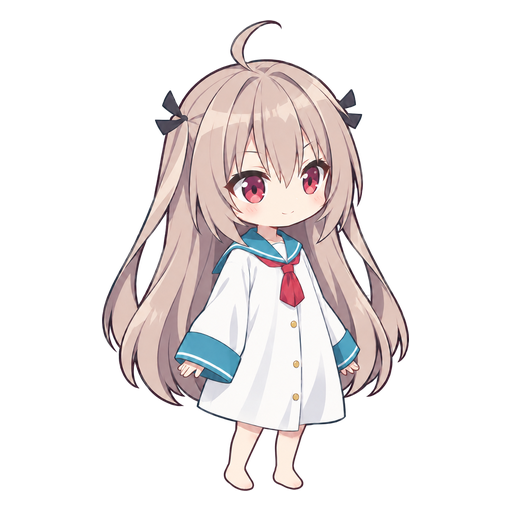
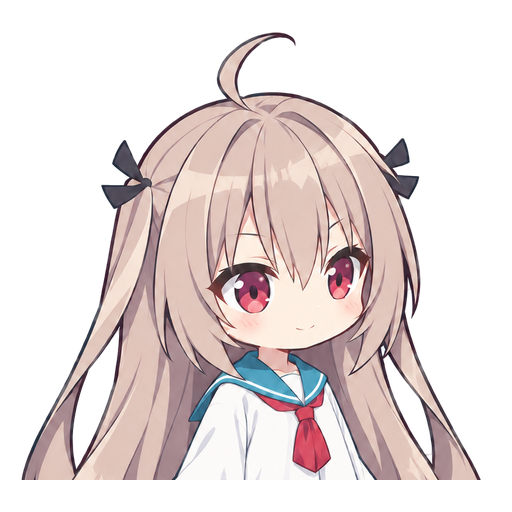
Stop the build eating the hand-repaired ponytail; diagonal gait, softer drag, earlier dizzy sit, bust thumb
Five things in this round, one of them the person's own work being destroyed.

A. The hand-repaired left ponytail was being reverted. build-diagnostic.py regenerates
   tex/tail-left.png from raw/pony-pair-left-01.png through the registration matrix on every run, and
   publish-atri-pack.py then copied that build output over packs/tex/. The repair survived only in
   git (7e4f35d, md5 6ab6bf6a), so it was recoverable and is restored. Three guards now:
     - the repair lives in official-regeneration/hand-edited/tail-left.png and the build prefers it
       over the raw art (raw stays as fallback for a fresh checkout);
     - add() accepts matrix=None, used for that layer, because it was painted directly on the canvas
       (bbox 148-370 x 279-933) and must not be registered twice;
     - publish-atri-pack.py keeps a HAND_EDITED allowlist and refuses to overwrite those names,
       printing what it kept.
   Verified byte-for-byte after a rebuild: opaque RGB max delta 0, alpha identical.

B. 顺拐. Same-side arm and leg were both +swing*gait, so the left arm came forward exactly when the
   left leg did. Signs are now arm-left -1.2, arm-right +0.8 against leg-left +1, leg-right -1 -
   each arm is in anti-phase with its own leg, which is the diagonal pairing.

C. Held deformation. kit sets pet.stretch -> 1 while dragged (about -5% x, +9% y on top of squash),
   and because the figure is held by the head it reads as the whole body elongating. DRAG_KEEP=.45
[…]

diff --git a/characters/atri-01/official-regeneration/pure-generation/renderer-template.js b/characters/atri-01/official-regeneration/pure-generation/renderer-template.js
@@ -214,19 +214,34 @@ const POSE_OFFSET={
    //   rigidX = rigidY = 1/uniform   ->   final (kx/u, ky/u), ratio kx/ky intact, area 1
    // SQ_KEEP scales how much of that ratio reaches the drawing: 1 = the kit's own amount, 0 = the
    // old dead behaviour. Landing/jump/throw all go through pet.sq, so this is the one knob for Q弹.
-   const SQ_KEEP=.85;
+   // 2026-10-31 user feedback: "被提起来的形变程度低一点". Being picked up stretches the body hard
+   // (kit: pet.stretch -> 1 while mode==='drag', giving sx -5% and sy +9% on top of the squash), and
+   // because the figure is held by the head that stretch reads as the whole body elongating. Drag
+   // now keeps only DRAG_KEEP of the anisotropy, so the held pose stays rounder and closer to the
+   // artwork while landing/jump still feel springy.
+   const SQ_KEEP=.85, DRAG_KEEP=.45;
    const nativeScale=/scale\(\s*([-\d.e+]+)[ ,]+([-\d.e+]+)\s*\)/.exec(g.getAttribute('transform')||'');
    if(nativeScale){
     const kx=Math.abs(Number(nativeScale[1])),ky=Math.abs(Number(nativeScale[2])),uniform=Math.sqrt(Math.max(kx*ky,1e-8));
     // final axis = k^SQ_KEEP * uniform^(1-SQ_KEEP), so the x:y RATIO keeps SQ_KEEP of the kit's own
     // amount while the absolute size is normalised. rigid = final / k = (uniform/k)^(1-SQ_KEEP).
-    rigidX=Math.pow(uniform/Math.max(kx,1e-8),1-SQ_KEEP);
-    rigidY=Math.pow(uniform/Math.max(ky,1e-8),1-SQ_KEEP);
+    const keep=o.mode==='drag'?DRAG_KEEP:SQ_KEEP;
+    rigidX=Math.pow(uniform/Math.max(kx,1e-8),1-keep);
+    rigidY=Math.pow(uniform/Math.max(ky,1e-8),1-keep);
     bodyScaleRatio=(ky*rigidY)/(kx*rigidX);
    }
    root.setAttribute('transform',`translate(128 256) scale(${rigidX} ${rigidY}) translate(-128 -256) translate(${tx} ${ty}) scale(${s})`);
-   const dt=clamp(o.t-lastT,1/240,.04);lastT=o.t;low=o.low||0;seatMix=smooth((o.sit-.05)/.9);
-   const seated=seatMix>=.5;if(seated!==poseSeated){poseSeated=seated;poseAge=0}else poseAge+=dt;
+   const dt=clamp(o.t-lastT,1/240,.04);lastT=o.t;low=o.low||0;
+   // 2026-10-31 user feedback: "摔晕的动作延迟有点长，站了一会儿才播放坐下眩晕动画".
+   // o.sit is the kit's pet.sitK, which ramps in with lerp(sitK, sitT, ease(6,dt)) - about 0.5-0.8 s
+   // to reach half. The old mapping smooth((sit-.05)/.9) needed sit = .5 before the drawn pose
+   // flipped, so the figure visibly stood through the first half of the wobble; on this body the
+   // stand and seat are two separate drawings, so a late flip reads as "nothing happens, then it
+   // suddenly sits". The mix now reaches its half point at sit ~.14 and saturates early, so the pose
+   // change starts on the same frame the kit begins lowering the body. The settle animation
+   // (poseDy) still smooths the swap, so this does not pop.
+   seatMix=smooth(clamp(o.sit*3.2,0,1));
+   const seated=o.sit>.14;if(seated!==poseSeated){poseSeated=seated;poseAge=0}else poseAge+=dt;
    // Exchange two drawn poses with a small rigid settle; never compress the torso.
    poseDy=(seated?-12:7)*Math.exp(-14*poseAge)*Math.cos(18*poseAge);
    stand.setAttribute('display',seated?'none':'inline');seat.setAttribute('display',seated?'inline':'none');
@@ -279,11 +294,19 @@ const POSE_OFFSET={
     // tx = hx + 7*sin(T*11 + i*2.2) and jitters the eyes at 22Hz, so the limbs here flap at 11Hz with
     // the same 2.2 rad phase offset and the hair/tuft shake moves from 15Hz to 21Hz.
     const held=o.mode==='drag';
+    // 2026-10-31 user feedback: "走路姿势顺拐". Arm and leg on the SAME side were both +swing*gait,
+    // so the left arm came forward exactly when the left leg did. A natural walk is diagonal: each
+    // arm moves in anti-phase with the leg on its own side, i.e. the left arm pairs with the right
+    // leg. Signs are now arm-left -1.2, arm-right +0.8 against leg-left +1, leg-right -1:
+    //     left arm (-) / left leg (+)  opposite     -> 顺拐 gone
+    //     left arm (-) / right leg (-) together     -> the diagonal pairing
+    // Amplitudes stay asymmetric (1.2 near, 0.8 far) because the near arm is the one the viewer
+    // reads; that asymmetry was accepted and is not what caused the fault.
     // The swing now comes from `swing` (speed-scaled) instead of a flat 8 degrees, and the two legs
     // use opposite phases of the SAME integrated gaitPhase, which is what makes a stride read as a
     // stride: at 8 deg the foot travelled 424*sin(8) = 59 px on a 1290 px figure, too short to match
     // the new cadence.
-    for(const [id,angle] of [['arm-left',waveAngle+(kind==='wave'?0:1.2*swing*gait)+(held?3*Math.sin(o.t*11):0)],['arm-right',-.8*swing*gait+(held?3*Math.sin(o.t*11+2.2):0)],['leg-left',swing*gait+(held?2*Math.sin(o.t*11+4.4):0)],['leg-right',-swing*gait+(held?2*Math.sin(o.t*11+6.6):0)]]){const [x,y]=parts.get(id).pivot;nodes.get(id).setAttribute('transform',`rotate(${angle} ${x} ${y}) ${registered(id)}`)}
+    for(const [id,angle] of [['arm-left',waveAngle+(kind==='wave'?0:-1.2*swing*gait)+(held?3*Math.sin(o.t*11):0)],['arm-right',.8*swing*gait+(held?3*Math.sin(o.t*11+2.2):0)],['leg-left',swing*gait+(held?2*Math.sin(o.t*11+4.4):0)],['leg-right',-swing*gait+(held?2*Math.sin(o.t*11+6.6):0)]]){const [x,y]=parts.get(id).pivot;nodes.get(id).setAttribute('transform',`rotate(${angle} ${x} ${y}) ${registered(id)}`)}
     const target=2.8*Math.sin(o.t*2.3)+clamp(o.look?.[0]||0,-6,6)*.17+(held?2.5*Math.sin(o.t*21):0);
    tuftV+=(target-tuft)*80*dt;tuftV*=Math.exp(-11*dt);tuft=clamp(tuft+tuftV*dt,-10,10);nodes.get('ahoge').setAttribute('transform',`rotate(${tuft} 565 169) ${registered('ahoge')}`);
    lastFace=o.mode==='drag'?'flustered':o.face;

diff --git a/packs/atri-v011/figure.js b/packs/atri-v011/figure.js
@@ -386,19 +386,34 @@ const POSE_OFFSET={
    //   rigidX = rigidY = 1/uniform   ->   final (kx/u, ky/u), ratio kx/ky intact, area 1
    // SQ_KEEP scales how much of that ratio reaches the drawing: 1 = the kit's own amount, 0 = the
    // old dead behaviour. Landing/jump/throw all go through pet.sq, so this is the one knob for Q弹.
-   const SQ_KEEP=.85;
+   // 2026-10-31 user feedback: "被提起来的形变程度低一点". Being picked up stretches the body hard
+   // (kit: pet.stretch -> 1 while mode==='drag', giving sx -5% and sy +9% on top of the squash), and
+   // because the figure is held by the head that stretch reads as the whole body elongating. Drag
+   // now keeps only DRAG_KEEP of the anisotropy, so the held pose stays rounder and closer to the
+   // artwork while landing/jump still feel springy.
+   const SQ_KEEP=.85, DRAG_KEEP=.45;
    const nativeScale=/scale\(\s*([-\d.e+]+)[ ,]+([-\d.e+]+)\s*\)/.exec(g.getAttribute('transform')||'');
    if(nativeScale){
     const kx=Math.abs(Number(nativeScale[1])),ky=Math.abs(Number(nativeScale[2])),uniform=Math.sqrt(Math.max(kx*ky,1e-8));
     // final axis = k^SQ_KEEP * uniform^(1-SQ_KEEP), so the x:y RATIO keeps SQ_KEEP of the kit's own
     // amount while the absolute size is normalised. rigid = final / k = (uniform/k)^(1-SQ_KEEP).
-    rigidX=Math.pow(uniform/Math.max(kx,1e-8),1-SQ_KEEP);
-    rigidY=Math.pow(uniform/Math.max(ky,1e-8),1-SQ_KEEP);
+    const keep=o.mode==='drag'?DRAG_KEEP:SQ_KEEP;
+    rigidX=Math.pow(uniform/Math.max(kx,1e-8),1-keep);
+    rigidY=Math.pow(uniform/Math.max(ky,1e-8),1-keep);
     bodyScaleRatio=(ky*rigidY)/(kx*rigidX);
    }
    root.setAttribute('transform',`translate(128 256) scale(${rigidX} ${rigidY}) translate(-128 -256) translate(${tx} ${ty}) scale(${s})`);
-   const dt=clamp(o.t-lastT,1/240,.04);lastT=o.t;low=o.low||0;seatMix=smooth((o.sit-.05)/.9);
-   const seated=seatMix>=.5;if(seated!==poseSeated){poseSeated=seated;poseAge=0}else poseAge+=dt;
+   const dt=clamp(o.t-lastT,1/240,.04);lastT=o.t;low=o.low||0;
+   // 2026-10-31 user feedback: "摔晕的动作延迟有点长，站了一会儿才播放坐下眩晕动画".
+   // o.sit is the kit's pet.sitK, which ramps in with lerp(sitK, sitT, ease(6,dt)) - about 0.5-0.8 s
+   // to reach half. The old mapping smooth((sit-.05)/.9) needed sit = .5 before the drawn pose
+   // flipped, so the figure visibly stood through the first half of the wobble; on this body the
+   // stand and seat are two separate drawings, so a late flip reads as "nothing happens, then it
+   // suddenly sits". The mix now reaches its half point at sit ~.14 and saturates early, so the pose
+   // change starts on the same frame the kit begins lowering the body. The settle animation
+   // (poseDy) still smooths the swap, so this does not pop.
+   seatMix=smooth(clamp(o.sit*3.2,0,1));
+   const seated=o.sit>.14;if(seated!==poseSeated){poseSeated=seated;poseAge=0}else poseAge+=dt;
    // Exchange two drawn poses with a small rigid settle; never compress the torso.
    poseDy=(seated?-12:7)*Math.exp(-14*poseAge)*Math.cos(18*poseAge);
    stand.setAttribute('display',seated?'none':'inline');seat.setAttribute('display',seated?'inline':'none');
@@ -451,11 +466,19 @@ const POSE_OFFSET={
     // tx = hx + 7*sin(T*11 + i*2.2) and jitters the eyes at 22Hz, so the limbs here flap at 11Hz with
     // the same 2.2 rad phase offset and the hair/tuft shake moves from 15Hz to 21Hz.
     const held=o.mode==='drag';
+    // 2026-10-31 user feedback: "走路姿势顺拐". Arm and leg on the SAME side were both +swing*gait,
+    // so the left arm came forward exactly when the left leg did. A natural walk is diagonal: each
+    // arm moves in anti-phase with the leg on its own side, i.e. the left arm pairs with the right
+    // leg. Signs are now arm-left -1.2, arm-right +0.8 against leg-left +1, leg-right -1:
+    //     left arm (-) / left leg (+)  opposite     -> 顺拐 gone
+    //     left arm (-) / right leg (-) together     -> the diagonal pairing
+    // Amplitudes stay asymmetric (1.2 near, 0.8 far) because the near arm is the one the viewer
+    // reads; that asymmetry was accepted and is not what caused the fault.
     // The swing now comes from `swing` (speed-scaled) instead of a flat 8 degrees, and the two legs
     // use opposite phases of the SAME integrated gaitPhase, which is what makes a stride read as a
     // stride: at 8 deg the foot travelled 424*sin(8) = 59 px on a 1290 px figure, too short to match
     // the new cadence.
-    for(const [id,angle] of [['arm-left',waveAngle+(kind==='wave'?0:1.2*swing*gait)+(held?3*Math.sin(o.t*11):0)],['arm-right',-.8*swing*gait+(held?3*Math.sin(o.t*11+2.2):0)],['leg-left',swing*gait+(held?2*Math.sin(o.t*11+4.4):0)],['leg-right',-swing*gait+(held?2*Math.sin(o.t*11+6.6):0)]]){const [x,y]=parts.get(id).pivot;nodes.get(id).setAttribute('transform',`rotate(${angle} ${x} ${y}) ${registered(id)}`)}
+    for(const [id,angle] of [['arm-left',waveAngle+(kind==='wave'?0:-1.2*swing*gait)+(held?3*Math.sin(o.t*11):0)],['arm-right',.8*swing*gait+(held?3*Math.sin(o.t*11+2.2):0)],['leg-left',swing*gait+(held?2*Math.sin(o.t*11+4.4):0)],['leg-right',-swing*gait+(held?2*Math.sin(o.t*11+6.6):0)]]){const [x,y]=parts.get(id).pivot;nodes.get(id).setAttribute('transform',`rotate(${angle} ${x} ${y}) ${registered(id)}`)}
     const target=2.8*Math.sin(o.t*2.3)+clamp(o.look?.[0]||0,-6,6)*.17+(held?2.5*Math.sin(o.t*21):0);
    tuftV+=(target-tuft)*80*dt;tuftV*=Math.exp(-11*dt);tuft=clamp(tuft+tuftV*dt,-10,10);nodes.get('ahoge').setAttribute('transform',`rotate(${tuft} 565 169) ${registered('ahoge')}`);
    lastFace=o.mode==='drag'?'flustered':o.face;

diff --git a/characters/atri-01/official-regeneration/pure-generation/build-diagnostic.py b/characters/atri-01/official-regeneration/pure-generation/build-diagnostic.py
@@ -41,7 +41,11 @@ def add(key, path, matrix=identity, z=0, pivot=None, role='fixed', clip=None, ma
         removed=0
     a=source.astype(np.float32)/255
     a[:,:,:3]*=a[:,:,3:4]
-    a=cv2.warpAffine(a,matrix,(W,H),flags=cv2.INTER_LINEAR)
+    # matrix=None means the texture is already in canvas coordinates (a hand-edited layer the person
+    # painted in place). It must NOT be passed through the registration matrix again, or it lands
+    # twice-displaced.
+    if matrix is not None:
+        a=cv2.warpAffine(a,matrix,(W,H),flags=cv2.INTER_LINEAR)
     if mask is not None:
         # The mask is given in canvas coordinates and is applied after the part's own transform, so a
         # measured row band stays the same band in the assembled character.
@@ -82,7 +86,14 @@ lock_fit=json.loads((P/'pure-generation/lock-placement.json').read_text(encoding
 FIT_LIBRARY=json.loads((ROOT/'scratch/asset-candidates-fit.json').read_text(encoding='utf8'))
 near=np.array(FIT_LIBRARY['left-library']['matrix'],float)[:2]
 far=np.array(FIT_LIBRARY['right-current']['matrix'],float)[:2]
-NEAR_LOCK=ROOT/'characters/atri-01/official-regeneration/raw/pony-pair-left-01.png'
+# 2026-10-31: the person repaired the left ponytail by hand and the next rebuild silently reverted
+# it, because the build regenerates tex/tail-left.png from the raw pair art every time. The hand
+# version is kept in official-regeneration/hand-edited/tail-left.png and takes priority; the raw pair
+# stays as the fallback so a fresh checkout without that folder still builds.
+NEAR_LOCK_HAND = ROOT/'characters/atri-01/official-regeneration/hand-edited/tail-left.png'
+NEAR_LOCK_RAW = ROOT/'characters/atri-01/official-regeneration/raw/pony-pair-left-01.png'
+NEAR_LOCK = NEAR_LOCK_HAND if NEAR_LOCK_HAND.exists() else NEAR_LOCK_RAW
+print('near lock source:', NEAR_LOCK.relative_to(ROOT), '| hand-edited' if NEAR_LOCK is NEAR_LOCK_HAND else '| raw art')
 # 2026-10-16 user decision A: the lock's upper part covers the crown hair again (the front piece is no
 # longer restricted to the rows head-clean leaves open), and the split to the back layer is moved down
 # to the middle of the lock so the lower half sits under the hair ends.
@@ -104,8 +115,12 @@ HEAD_ROWS=np.zeros((1374,1145),bool);HEAD_ROWS[150:521]=True
 # Narrowed 2026-10-16 after the contour-wide version emptied the band beside the face: now only 3px,
 # and only over the crown-to-bow rows (y 150-360), so face height is never touched.
 REAR_TRIM=(OUTSIDE_HEAD<=6)&(~HEAD_FILLED)&HEAD_ROWS
-add('tail-left',NEAR_LOCK,near,-2,[370,300])
-add('tail-left-front',NEAR_LOCK,near,6.05,[370,300],role='lock-front',clip=NEAR_LOCK_FRONT_CLIP)
+# 2026-10-31: matrix=None for the hand-edited lock - it was painted directly on the canvas
+# (content bbox 148..370 x 279..933, the same place the registered build produced), so applying
+# `near` again would move it a second time.
+NEAR_MATRIX=None if NEAR_LOCK is NEAR_LOCK_HAND else near
+add('tail-left',NEAR_LOCK,NEAR_MATRIX,-2,[370,300])
+add('tail-left-front',NEAR_LOCK,NEAR_MATRIX,6.05,[370,300],role='lock-front',clip=NEAR_LOCK_FRONT_CLIP)
 add('tail-right',P/'raw/ponytail-far-complete-06.png',far,-1,[803,300])
 add('rear-hair',P/'raw/rear-hair-complete-04.png',rear,0,exclude=REAR_TRIM)
 add('leg-left',P/'registered/leg-left-02.png',z=1,pivot=[551,1090],role='leg')

diff --git a/scripts/publish-atri-pack.py b/scripts/publish-atri-pack.py
@@ -63,9 +63,22 @@ def main():
         if src.is_file():
             shutil.copy2(src, PACK / name)
     (PACK / "tex").mkdir(exist_ok=True)
-    n = 0
+
+    # 2026-10-31: textures the person edited by hand must survive a publish. The first version of
+    # this script copied every scratch/tex/*.png over packs/tex/, which silently reverted the
+    # hand-repaired left ponytail (md5 6ab6bf6a...) back to the old build output (ef57a84d...). build
+    # output is authoritative only for textures nobody touched, so hand-edited names are listed here
+    # and skipped, with the reason printed.
+    HAND_EDITED = {
+        "tail-left.png": "hand-repaired left ponytail (2026-10-30)",
+    }
+    n, kept = 0, []
     for f in sorted((BUILT / "tex").glob("*.png")):
-        shutil.copy2(f, PACK / "tex" / f.name)
+        dst = PACK / "tex" / f.name
+        if f.name in HAND_EDITED and dst.exists():
+            kept.append(f.name)
+            continue
+        shutil.copy2(f, dst)
         n += 1
     # stale textures from an older build would still load by name and confuse a diff
     live = {f.name for f in (BUILT / "tex").glob("*.png")} | {"thumb.png"}
@@ -75,11 +88,14 @@ def main():
             f.unlink()
             removed.append(f.name)
     print(f"[publish] copied {n} textures" + (f", removed stale {removed}" if removed else ""))
+    if kept:
+        print("[publish] kept hand-edited: " + ", ".join(f"{k} ({HAND_EDITED[k]})" for k in kept))
 
     # 2-4. re-author the parts packs/ owns, in dependency order
     print("[publish] " + run("write-atri-manifest.py", PACK_NAME).splitlines()[-1])
     print("[publish] " + run("add-atri-vocab-about.py", PACK_NAME).splitlines()[-1])
-    print("[publish] " + run("make-atri-thumb.py", PACK_NAME, "--size=512").splitlines()[-1])
+    # --bust: the 装扮 card gets a portrait (head/bows/ponytail roots), not the whole body
+    print("[publish] " + run("make-atri-thumb.py", PACK_NAME, "--size=512", "--bust").splitlines()[-1])
 
     # 5. validate + zip (this step never writes the manifest)
     for line in run("package-atri-pack.py", PACK_NAME).splitlines():

diff --git a/scripts/make-atri-thumb.py b/scripts/make-atri-thumb.py
@@ -15,7 +15,7 @@ Sources, in order of preference:
     3. characters/atri-01/official-regeneration/pure-generation/preview-current.png
 
 Usage:
-    .venv/Scripts/python.exe scripts/make-atri-thumb.py [pack-dir-name] [--size 512]
+    .venv/Scripts/python.exe scripts/make-atri-thumb.py [pack-dir-name] [--size 512] [--bust]
 """
 import json
 import sys
@@ -29,9 +29,12 @@ args = [a for a in sys.argv[1:] if not a.startswith("--")]
 PACK_NAME = args[0] if args else "atri-v011"
 PACK = ROOT / "packs" / PACK_NAME
 SIZE = 512
+BUST = False
 for a in sys.argv[1:]:
     if a.startswith("--size="):
         SIZE = int(a.split("=", 1)[1])
+    if a == "--bust":
+        BUST = True
 
 CANDIDATES = [
     PACK / "preview.png",
@@ -41,6 +44,12 @@ CANDIDATES = [
 
 # the card draws the thumb small; a little transparent margin keeps the hair edge off the border
 MARGIN = 0.04
+
+# 2026-10-31 user feedback: "预览界面不要用全身，截取上半身就好了". At 512 px in a card slot the full
+# body makes the face a thumbnail of a thumbnail. BUST keeps the top fraction of the figure's own
+# height (head, shoulders, both bows, the ponytail roots) and crops the rest, so the card reads as a
+# portrait. 0.62 covers down to about the waist on this master.
+BUST_FRACTION = 0.62
 
 
 def content_bbox(im: Image.Image):
@@ -59,8 +68,13 @@ def main():
     box = content_bbox(im)
     if box is None:
         sys.exit(f"{src} has no opaque pixels")
+    x0, y0, x1, y1 = box
+    if BUST:
+        cut = y0 + round((y1 - y0) * BUST_FRACTION)
+        box = (x0, y0, x1, cut)
     figure = im.crop(box)
-    print(f"source {src.relative_to(ROOT)} {im.size} -> figure {figure.size} at {box}")
+    print(f"source {src.relative_to(ROOT)} {im.size} -> "
+          f"{'bust' if BUST else 'full'} {figure.size} at {box}")
 
     # fit the figure inside (1-2*MARGIN) of the square, centred, keeping aspect
     inner = int(SIZE * (1 - 2 * MARGIN))
